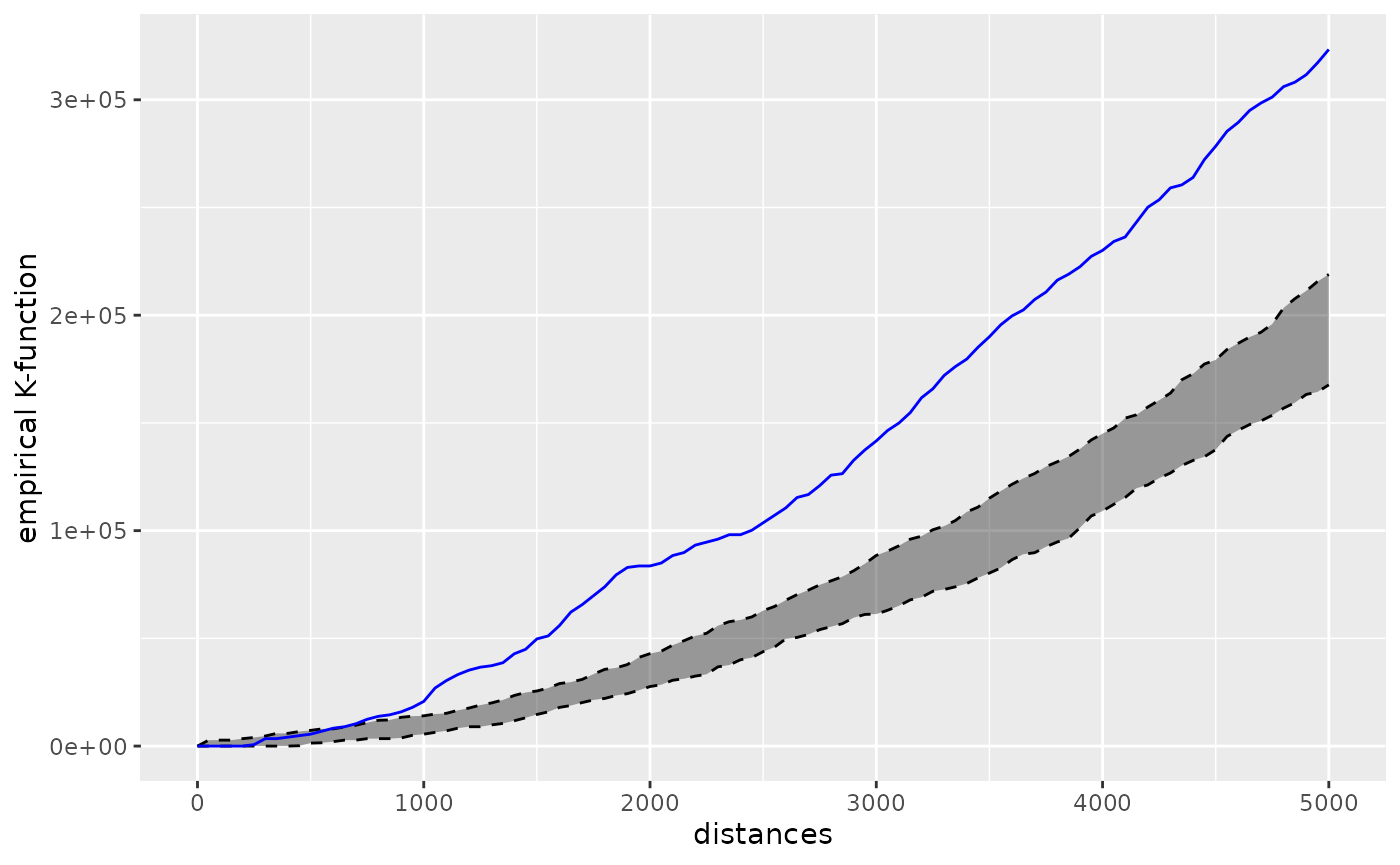
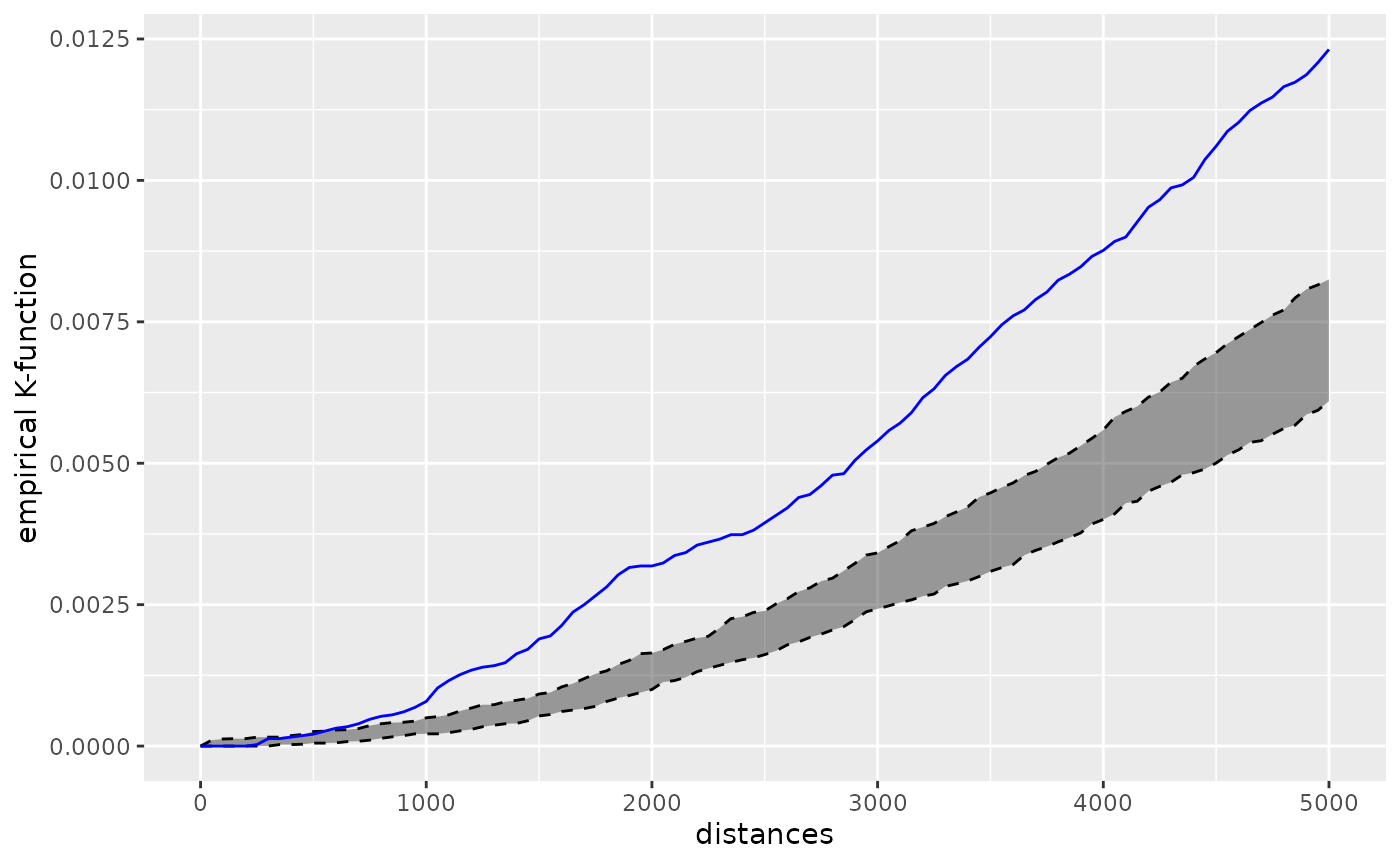
Built site for spNetwork: 0.1.2.9000@4011e4a

diff --git a/articles/KNetworkFunctions.html b/articles/KNetworkFunctions.html
@@ -100,7 +100,7 @@
       <h1 data-toc-skip>Network k Functions</h1>
                         <h4 class="author">Jeremy Gelb</h4>
             
-            <h4 class="date">2021-09-25</h4>
+            <h4 class="date">2021-09-28</h4>
       
       <small class="dont-index">Source: <a href="https://github.com/JeremyGelb/spNetwork/blob/master/vignettes/KNetworkFunctions.Rmd"><code>vignettes/KNetworkFunctions.Rmd</code></a></small>
       <div class="hidden name"><code>KNetworkFunctions.Rmd</code></div>
@@ -119,7 +119,9 @@
 <center>
 <img src="images/k-g-functions.png" title="fig:" style="width:45.0%" alt="Image Title">
 </center>
-<p>When the points are located on a network, the use of the Euclidean distance systematically underestimates the real distance between points These two functions can be extended for network spaces by using the network distance instead of the Euclidean distance.</p>
+<p>When the points are located on a network, the use of the Euclidean distance systematically underestimates the real distance between points These two functions can be extended for network spaces by using the network distance instead of the Euclidean distance. The value of the empirical k function on a network is calculated with the following formula:</p>
+<p><span class="math display">\[\hat{K}(r)=\frac{1}{(n-1)/Lt} \sum_{i=1}^{n} \sum_{j=1 \atop j \neq i}^{n} \mathbf{1}\left\{d_{i j} \leq r\right\}\]</span></p>
+<p>With <span class="math inline">\(Lt\)</span> the total length of the network and <span class="math inline">\(n\)</span> the number of events.</p>
 </div>
 <div id="the-network-k-function-in-spnetwork" class="section level1">
 <h1 class="hasAnchor">
@@ -173,7 +175,9 @@
 <a href="#the-network-cross-k-function-in-spnetwork" class="anchor"></a>The network cross-K-function in spNetwork</h1>
 <p>The cross-K-function is used to determine if two set of points A and B tend to be close or far away one from each other. For a radius <em>r</em>, the empirical cross-K-function is calculated with the following formula :</p>
 <p><span class="math display">\[\hat{K}(r)=\frac{1}{n_a n_b)} \sum_{i=1}^{n_a} \sum_{j=1}^{n_b} \mathbf{1}\left\{d_{i j} \leq r\right\}\]</span></p>
-<p>with <span class="math inline">\(n_a\)</span> the number of points in A and <span class="math inline">\(n_b\)</span> the number of points in B.</p>
+<p>On a network, the formula is adapted:</p>
+<p><span class="math display">\[\hat{K}(r)=\frac{1}{n_a/Lt)} \sum_{i=1}^{n_a} \sum_{j=1}^{n_b} \mathbf{1}\left\{d_{i j} \leq r\right\}\]</span></p>
+<p>with <span class="math inline">\(n_a\)</span> the number of points in A and <span class="math inline">\(n_b\)</span> the number of points in B, and <span class="math inline">\(Lt\)</span> the total length of the network.</p>
 <p>Note that the cross-K-function A to B is not necessarily the same results as the cross-K-function B to A. Again, in <strong>spNetwork</strong>, the inference is based on Monte Carlo Simulations. The locations of the reference set of points are randomized to estimate if the current situation is more or less clustered that what we could expect at random.</p>
 <div class="sourceCode" id="cb6"><pre class="downlit sourceCode r">
 <code class="sourceCode R"><span class="va">cross_biblio_theatre</span> <span class="op">&lt;-</span> <span class="fu"><a href="../reference/cross_kfunctions.html">cross_kfunctions</a></span><span class="op">(</span><span class="va">main_network_mtl</span>, <span class="va">mtl_libraries</span>,

diff --git a/articles/NKDE.html b/articles/NKDE.html
@@ -100,7 +100,7 @@
       <h1 data-toc-skip>Network Kernel Density Estimate</h1>
                         <h4 class="author">Jeremy Gelb</h4>
             
-            <h4 class="date">2021-09-25</h4>
+            <h4 class="date">2021-09-28</h4>
       
       <small class="dont-index">Source: <a href="https://github.com/JeremyGelb/spNetwork/blob/master/vignettes/NKDE.Rmd"><code>vignettes/NKDE.Rmd</code></a></small>
       <div class="hidden name"><code>NKDE.Rmd</code></div>
@@ -443,7 +443,8 @@ cosine
 <span class="fu"><a href="https://rdrr.io/pkg/raster/man/plot.html">plot</a></span><span class="op">(</span><span class="va">bike_accidents</span>,add<span class="op">=</span><span class="cn">T</span>,col<span class="op">=</span><span class="st">'red'</span>,pch <span class="op">=</span> <span class="fl">19</span><span class="op">)</span></code></pre></div>
 <p><img src="NKDE_files/figure-html/unnamed-chunk-5-1.png" width="700"></p>
 <div class="sourceCode" id="cb5"><pre class="downlit sourceCode r">
-<code class="sourceCode R"><span class="co"># then calculating some lixels to use as sampling points</span>
+<code class="sourceCode R">
+<span class="co"># then calculating some lixels to use as sampling points</span>
 <span class="va">lixels</span> <span class="op">&lt;-</span> <span class="fu"><a href="../reference/lixelize_lines.html">lixelize_lines</a></span><span class="op">(</span><span class="va">mtl_network</span>,<span class="fl">200</span>,mindist <span class="op">=</span> <span class="fl">50</span><span class="op">)</span>
 <span class="va">samples</span> <span class="op">&lt;-</span> <span class="fu"><a href="../reference/lines_center.html">lines_center</a></span><span class="op">(</span><span class="va">lixels</span><span class="op">)</span></code></pre></div>
 <div class="sourceCode" id="cb6"><pre class="downlit sourceCode r">
@@ -523,7 +524,8 @@ cosine
 <p>The calculus of the NKDE for each cell could be done by several cores. To do so, <strong>spNetwork</strong> provides a function <em>nkde.mc</em>. More specifically, it uses functions from the packages ‘future’ and ‘future.apply’. The selection of the plan has to be done by the user to ensure the best compatibility on each os and computer. See the documentation of the ‘future’ package if needed.</p>
 <p>The following code will produce the same results as before but split the work between two cores. Note that the plan used by the package ‘future’ may vary according to your os.</p>
 <div class="sourceCode" id="cb9"><pre class="downlit sourceCode r">
-<code class="sourceCode R"><span class="co"># setting the multisession plan</span>
+<code class="sourceCode R">
+<span class="co"># setting the multisession plan</span>
 <span class="fu">future</span><span class="fu">::</span><span class="fu"><a href="https://future.futureverse.org/reference/plan.html">plan</a></span><span class="op">(</span><span class="fu">future</span><span class="fu">::</span><span class="fu"><a href="https://future.futureverse.org/reference/multisession.html">multisession</a></span><span class="op">(</span>workers<span class="op">=</span><span class="fl">2</span><span class="op">)</span><span class="op">)</span>
 
 <span class="co"># then applying the NKDE</span>

diff --git a/index.html b/index.html
@@ -117,12 +117,12 @@
 <a href="#what-is-this-package-" class="anchor"></a>What is this package ?</h2>
 <p>This package can be used to perform several types of analysis on geographical networks. This type of network have spatial coordinates associated with their nodes. They can be directed or undirected. In the actual development version the implemented methods are:</p>
 <ul>
-<li>Network Kernel Density Estimate, a method estimating density of a point pattern constrained on a network (see the vignettes <em>Network Kernel Density Estimate</em> and <em>Details about NKDE</em>).</li>
-<li>Network based spatial weight matrices, which can be used in a great number of traditional methods in spatial analysis (see the vignette <em>Spatial Weight Matrices</em>).</li>
-<li>Network k Functions, used to investigate the spatial distribution of a set of points on a network at several scales (see the vignette <em>Network k Functions</em>).</li>
-<li>K nearest neighbours, to calculate for each point localised on a network its K nearest neighbour (see the function <code>network_knn</code>).</li>
-<li>Graph analysis, using the functions of the package <strong>igraph</strong> (see the vignette <em>Building graphs</em>)</li>
-<li>Isochrones, to delineate accessible area around points localised on a network (see the vignette <em>Calculating isochrones</em>)</li>
+<li>Network Kernel Density Estimate, a method estimating density of a point pattern constrained on a network (see the vignettes <a href="https://jeremygelb.github.io/spNetwork/articles/NKDE.html">Network Kernel Density Estimate</a> and <a href="https://jeremygelb.github.io/spNetwork/articles/NKDEdetailed.html">Details about NKDE</a>).</li>
+<li>Network based spatial weight matrices, which can be used in a great number of traditional methods in spatial analysis (see the vignette <a href="https://jeremygelb.github.io/spNetwork/articles/SpatialWeightMatrices.html">Spatial Weight Matrices</a>).</li>
+<li>Network k Functions, used to investigate the spatial distribution of a set of points on a network at several scales (see the vignette <a href="https://jeremygelb.github.io/spNetwork/articles/KNetworkFunctions.html">Network k Functions</a>).</li>
+<li>K nearest neighbours, to calculate for each point on a network its K nearest neighbour (see the function <code>network_knn</code>).</li>
+<li>Graph analysis, using the functions of the package <strong>igraph</strong> (see the vignette <a href="https://jeremygelb.github.io/spNetwork/articles/NetworkBuilding.html">Building graphs</a>)</li>
+<li>Isochrones, to delineate accessible area around points localised on a network (see the vignette <a href="https://jeremygelb.github.io/spNetwork/articles/Isochrones.html">Calculating isochrones</a>)</li>
 </ul>
 <p>Calculation on network can be long, efforts were made to reduce computation time by implementing several core functions with <strong>Rcpp</strong> and <strong>RcppArmadillo</strong> and by using multiprocessing when possible.</p>
 </div>

diff --git a/articles/NKDEdetailed.html b/articles/NKDEdetailed.html
@@ -100,7 +100,7 @@
       <h1 data-toc-skip>Details about NKDE</h1>
                         <h4 class="author">Jeremy Gelb</h4>
             
-            <h4 class="date">2021-09-25</h4>
+            <h4 class="date">2021-09-28</h4>
       
       <small class="dont-index">Source: <a href="https://github.com/JeremyGelb/spNetwork/blob/master/vignettes/NKDEdetailed.Rmd"><code>vignettes/NKDEdetailed.Rmd</code></a></small>
       <div class="hidden name"><code>NKDEdetailed.Rmd</code></div>
@@ -260,7 +260,8 @@
 <a href="#the-discontinuous-method" class="anchor"></a>The discontinuous method</h1>
 <p>To overcome the limits of the previous method, <span class="citation">Okabe and Sugihara (<a href="#ref-okabe2012spatial" role="doc-biblioref">2012</a>)</span> have proposed the discontinuous NKDE, which has been extended by <span class="citation">Sugihara, Satoh, and Okabe (<a href="#ref-sugihara2010simple" role="doc-biblioref">2010</a>)</span> for cases where the network has cycles shorter than the bandwidth.</p>
 <div class="sourceCode" id="cb4"><pre class="downlit sourceCode r">
-<code class="sourceCode R"><span class="va">discontinuous_kernel</span> <span class="op">&lt;-</span> <span class="fu"><a href="../reference/nkde.html">nkde</a></span><span class="op">(</span><span class="va">all_lines</span>, <span class="va">event</span>, w <span class="op">=</span> <span class="fl">1</span>,
+<code class="sourceCode R">
+<span class="va">discontinuous_kernel</span> <span class="op">&lt;-</span> <span class="fu"><a href="../reference/nkde.html">nkde</a></span><span class="op">(</span><span class="va">all_lines</span>, <span class="va">event</span>, w <span class="op">=</span> <span class="fl">1</span>,
                   samples <span class="op">=</span> <span class="va">samples_pts</span>, kernel_name <span class="op">=</span> <span class="st">"quartic"</span>, 
                   bw <span class="op">=</span> <span class="fl">10</span>, method <span class="op">=</span> <span class="st">"discontinuous"</span>, div <span class="op">=</span> <span class="st">"bw"</span>, 
                   digits <span class="op">=</span> <span class="fl">3</span>, tol <span class="op">=</span> <span class="fl">0.001</span>, grid_shape <span class="op">=</span> <span class="fu"><a href="https://rdrr.io/r/base/c.html">c</a></span><span class="op">(</span><span class="fl">1</span>,<span class="fl">1</span><span class="op">)</span>,

diff --git a/news/index.html b/news/index.html
@@ -161,6 +161,7 @@
 <h2 class="hasAnchor">
 <a href="#documentation" class="anchor"></a>documentation</h2>
 <p>Several vignettes were added to present the new features. A pkgdown website was aslo built to give a more attractive way to browse the documentation.</p>
+<p>We follow now the code coverage. We aim a 70% coverage before the next CRAN release.</p>
 </div>
 <div id="corrected-bugs" class="section level2">
 <h2 class="hasAnchor">
@@ -170,6 +171,7 @@
 <li>issue 2 fixed by handling the special case of lines of length 0.</li>
 <li>an error was raised when using <em>listw_network</em> with polygons and the method = “pointsalong”. This was caused by a minor error in the code and works now as expected.</li>
 <li>an error was present in the Diggle correction factor, leading to overestimation of the correction. This error has been corrected.</li>
+<li>for the k functions, a minor error in the calculus was corrected, affecting only the absolute scale of the result. These functions are now formally tested.</li>
 </ul>
 </div>
 <div id="performance" class="section level2">

diff --git a/articles/SpatialWeightMatrices.html b/articles/SpatialWeightMatrices.html
@@ -100,7 +100,7 @@
       <h1 data-toc-skip>Spatial Weight Matrices</h1>
                         <h4 class="author">Jeremy Gelb</h4>
             
-            <h4 class="date">2021-09-25</h4>
+            <h4 class="date">2021-09-28</h4>
       
       <small class="dont-index">Source: <a href="https://github.com/JeremyGelb/spNetwork/blob/master/vignettes/SpatialWeightMatrices.Rmd"><code>vignettes/SpatialWeightMatrices.Rmd</code></a></small>
       <div class="hidden name"><code>SpatialWeightMatrices.Rmd</code></div>

diff --git a/articles/NetworkBuilding.html b/articles/NetworkBuilding.html
@@ -100,7 +100,7 @@
       <h1 data-toc-skip>Building graphs</h1>
                         <h4 class="author">Jeremy Gelb</h4>
             
-            <h4 class="date">2021-09-25</h4>
+            <h4 class="date">2021-09-28</h4>
       
       <small class="dont-index">Source: <a href="https://github.com/JeremyGelb/spNetwork/blob/master/vignettes/NetworkBuilding.Rmd"><code>vignettes/NetworkBuilding.Rmd</code></a></small>
       <div class="hidden name"><code>NetworkBuilding.Rmd</code></div>

diff --git a/articles/Isochrones.html b/articles/Isochrones.html
@@ -100,7 +100,7 @@
       <h1 data-toc-skip>Calculating isochrones</h1>
                         <h4 class="author">Jeremy Gelb</h4>
             
-            <h4 class="date">2021-09-25</h4>
+            <h4 class="date">2021-09-28</h4>
       
       <small class="dont-index">Source: <a href="https://github.com/JeremyGelb/spNetwork/blob/master/vignettes/Isochrones.Rmd"><code>vignettes/Isochrones.Rmd</code></a></small>
       <div class="hidden name"><code>Isochrones.Rmd</code></div>
